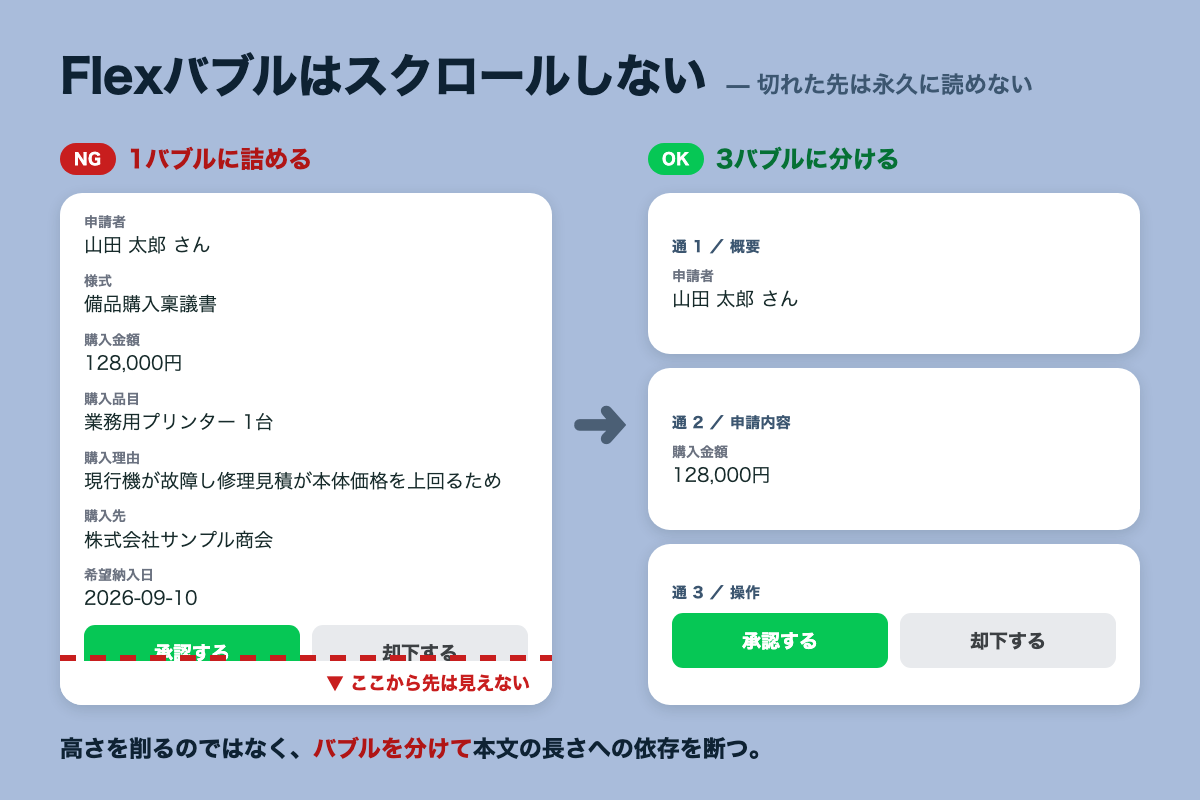
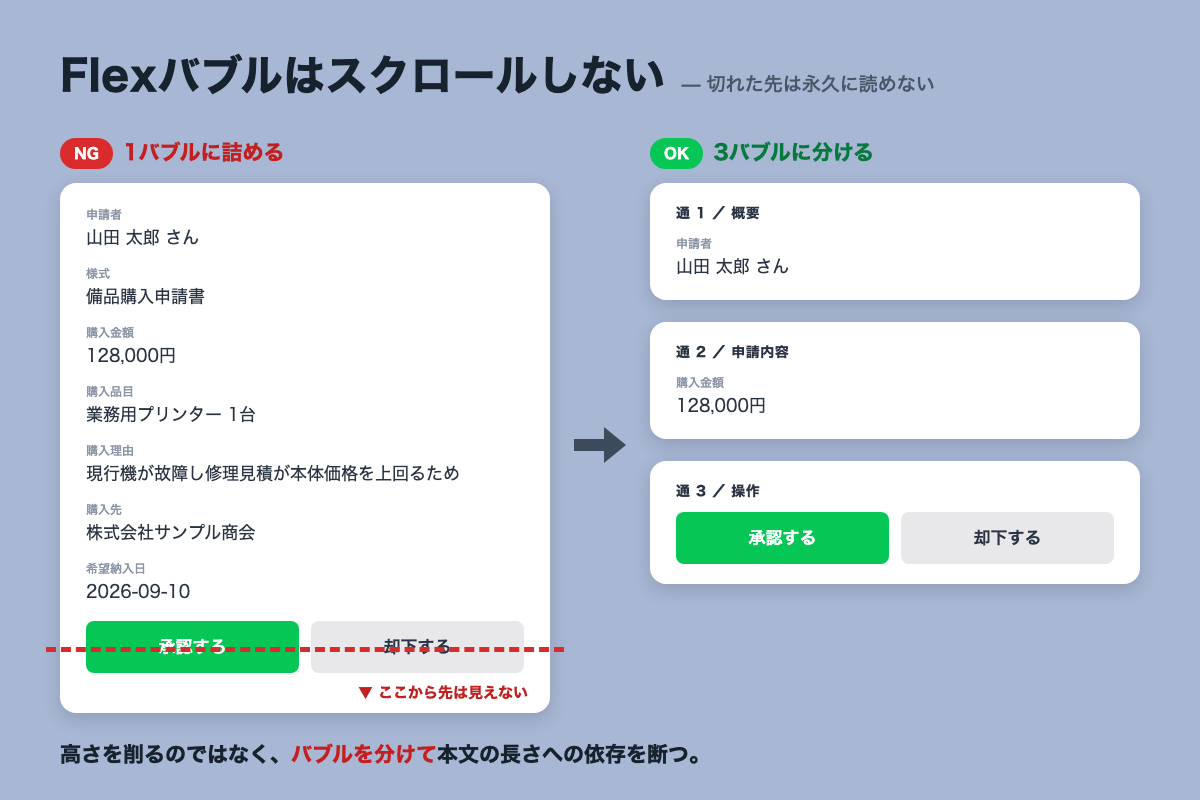
記事公開: Flexカードが押した瞬間にズレる件の新記事と、見切れ記事の加筆
- 新記事: カスタムフォント起因のズレを整理し、対処の知見を募る問いかけ記事
- 見切れ記事: 秘密保持のため業務固有の語を一般名へ置き換え、画像も差し替え
- 見切れ記事: 押下時ズレの症状と「学び」を加筆、姉妹記事リンクを追加

Changed region(s): [[0.0308, 0.1562, 0.9558, 0.9688], [0.0617, 0.0625, 0.8633, 0.125]]

diff --git a/articles/dd1693a16cd6b3.md b/articles/dd1693a16cd6b3.md
@@ -1,0 +1,105 @@
+---
+title: "Flexカードがボタンを押した瞬間にズレる。犯人はLINEのカスタムフォントだった"
+emoji: "👻"
+type: "tech" # tech: 技術記事 / idea: アイデア
+publication_name: "yoshinani_dev"
+topics: ["LINE", "LINEMessagingAPI", "FlexMessage", "UI", "フォント"]
+published: true
+---
+
+LINE の Flex Message で作った承認カードが、ボタンを押した瞬間にレイアウトごとズレる。トーク一覧へ戻って開き直すと、何事もなかったように元へ戻る。そんな挙動に遭遇しました。
+
+結論から言うと、引き金は LINE の有料プランで提供されるカスタムフォントでした。そして 2026 年 8 月現在、仕様の中にこれを防ぐ決定打を見つけられていません。
+
+同じ症状を追いかけている人の、切り分けの時短になれば嬉しいです。あわせて、対処をご存じの方がいたらコメントで教えてください。
+
+:::message
+本記事は業務システムの開発に伴走した記録です。クライアント名・業務固有の用語・ユーザー ID などは伏せ、サンプルデータは架空の申請書に置き換えています。
+:::
+
+## つくっていたもの
+
+LINE 上で完結する、社内の申請承認ワークフローです。申請者が LINE から申請すると、承認者に Flex Message でカードが届き、その場で「承認する」「却下する」を押せます。
+
+見切れと 7 連敗した経緯は姉妹記事にまとめました。本記事はその後日談で、症状の全体像と現時点の落とし所を整理します。
+
+https://zenn.dev/yoshinani_dev/articles/98ccf4a55b0347
+
+## 症状はひとつではなかった
+
+該当端末で確認できた症状は 2 種類あります。
+
+**1. 恒常的な見切れ。** バブルの下端が切れ、最下段のボタンが画面に出ません。Flex のバブルはスクロールしないので、切れた先は指でも引っぱり出せません。開き直しても直りません。
+
+**2. 押した瞬間のズレ。** カードのボタンをタップした瞬間、レイアウトが崩れます。トーク一覧へ戻ってから開き直すと元に戻ります。
+
+2 は特に示唆的でした。JSON は 1 バイトも変わっていないのに、表示だけが崩れ、再描画で復元する。データ側ではなく、LINE アプリの描画側で起きている問題だと切り分けられます。
+
+## 引き金はカスタムフォント
+
+症状が出たのは、LINE の有料プランで提供されるカスタムフォントを設定した端末だけでした。手元の標準フォント端末では、同じ JSON がきれいに表示されます。
+
+考えてみれば当然で、フォントが変われば 1 行の高さも折り返し位置も変わります。ただし Flex Message は HTML と違って、あふれてもスクロールが生えません。あふれたぶんは、ただ消えます。
+
+## 公式ドキュメントの立場
+
+公式ドキュメントに書いてあるのはこのあたりです。
+
+- 描画は端末の環境（OS・LINE バージョン・画面の解像度・言語設定・フォント）によって変わりうる
+- `scaling` は、アプリのフォントサイズ設定にサイズを追従させるためのオプトイン
+- `adjustMode: "shrink-to-fit"` はベストエフォート
+
+> The `adjustMode` property takes a "best-effort" approach that may work differently—or not at all!—on some platforms.
+
+一方で、次のことは見つけられませんでした。
+
+- バブルの最大高さ
+- 高さの上限を超えたときの挙動
+- カスタムフォントで高さが変わる場合の対処
+
+つまり「フォントで表示が変わる」ことは公式も明記したうえで、変わった結果をどう守るかは開発者に委ねられています。
+
+## 効かなかったもの
+
+姉妹記事で実測した要点だけ再掲します。
+
+| 対処 | 結果 |
+| --- | --- |
+| 本文を短くする | 短くした構成のほうが切れるケースがあった |
+| パディングを増やす | バブルが高くなる方向。3 回試して全て空振り |
+| `scaling: true` | フォント設定に追従してさらに高くなり逆効果 |
+| `adjustMode` | 幅方向にしか効かない |
+
+プロパティで押さえ込む方向は、全滅でした。
+
+## 現時点の現実解
+
+再現性があったのは、構造を変えることだけでした。
+
+1. **ボタンを本文と別のバブルに分ける。** 本文がどれだけ伸びても、操作系が巻き添えを食いません
+2. **行数の予算で分割する。** 推定行数が予算を超えたら、本文バブルをさらに分割します
+3. **再現端末へ直接テスト送信する。** [Flex Message Simulator](https://developers.line.biz/flex-simulator/) のテスト送信を使うと、デプロイなしで確認できます
+
+押した瞬間のズレ（症状 2）については、正直に書くと防ぐ手立てを見つけられていません。開き直せば直るため実害は見切れより小さいものの、利用者に「開き直してください」と案内するのは敗北感があります。
+
+## みなさんはどうしていますか
+
+自分の観測範囲では、この問題に決定打がありません。知りたいのはこのあたりです。
+
+- カスタムフォント端末での崩れを、プロパティ側で防げた事例
+- 押した瞬間のズレの回避策
+- 公式のロードマップや既知の issue の情報
+
+ご存じの方がいたら、コメントで教えてもらえると嬉しいです。分かったことはこの記事に追記していきます。
+
+## おわりに
+
+「フォントで描画が変わる」と仕様が言っている以上、ピクセル単位でレイアウトを守るのは最初から分の悪い勝負です。守るべきは見た目の再現ではなく、操作が必ず届くことでした。
+
+同じカードを磨き続けるより、ボタンを独立させて小さく保つ。現時点の私の答えはこれです。
+
+## 参考
+
+- [Flex Message layout | LINE Developers](https://developers.line.biz/en/docs/messaging-api/flex-message-layout/)
+- [Send Flex Messages | LINE Developers](https://developers.line.biz/en/docs/messaging-api/using-flex-messages/)
+- [Flex Message Simulator](https://developers.line.biz/flex-simulator/)

diff --git a/articles/98ccf4a55b0347.md b/articles/98ccf4a55b0347.md
@@ -9,19 +9,19 @@ published: true
 
 LINE の Flex Message で作った承認カードが、特定の端末でだけ下端が切れて、承認ボタンが押せなくなりました。7 回直して 7 回とも再発しました。
 
-犯人は「高さを削れば直る」という思い込みでした。実際に測ってみたら、短くしたほうが切れるという結果が出ます。
+結論から言うと、犯人は「高さを削れば直る」という思い込みでした。実際に測ってみたら、短くしたほうが切れるという結果が出ました。
 
 同じ症状で消耗している人の時短になれば嬉しいです。
 
 ![1バブルに詰めると下端のボタンが切れる。3バブルに分けると本文の長さに依存しなくなる](/images/line-flex-bubble-split.png)
 
 :::message
-本記事は業務システムの開発に伴走した記録です。クライアント名・様式名・ユーザー ID などは伏せ、サンプルデータは架空の稟議書に置き換えています。
+本記事は業務システムの開発に伴走した記録です。クライアント名・業務固有の用語・ユーザー ID などは伏せ、サンプルデータは架空の申請書に置き換えています。
 :::
 
 ## つくっていたもの
 
-LINE 上で完結する稟議申請システムです。申請者が LINE から申請すると、決裁者に Flex Message で承認依頼カードが飛び、その場で「承認する」「却下する」を押せます。
+LINE 上で完結する、社内の申請承認ワークフローです。申請者が LINE から申請すると、承認者に Flex Message で承認依頼カードが飛び、その場で「承認する」「却下する」を押せます。
 
 技術構成はこんな感じです。
 
@@ -36,7 +36,13 @@ LINE 上で完結する稟議申請システムです。申請者が LINE から
 
 その端末で見せてもらうと、カードの下端が途中で切れていて、最下段のボタンが画面に出ていませんでした。しかも Flex のバブルはスクロールしません。切れた先は指でも引っぱり出せない。
 
-該当端末は、LINE の有料プランで提供されるカスタムフォントを設定していました。
+該当端末は、LINE の有料プランで提供されるカスタムフォントを設定していました。フォントが変われば行の高さも変わります。同じ JSON でも、端末によって描画される高さは同じではないわけです。
+
+不可解な挙動もありました。カードのボタンを押した瞬間にレイアウトがずれ、トーク一覧へ戻ってから開き直すと元に戻ります。JSON は同じまま表示だけが変わる。データではなく描画側の問題だと、ここで確信しました。
+
+この「押すとズレて、開き直すと直る」挙動は、症状の全体像と合わせて姉妹記事に整理しています。
+
+https://zenn.dev/yoshinani_dev/articles/dd1693a16cd6b3
 
 ## 7 回の敗北
 
@@ -238,9 +244,23 @@ expect(JSON.stringify(messages)).toContain(long)
 
 つまりレイアウトは保証されていません。公式が示す対処も「シミュレータで事前に確認せよ」に尽きます。プロパティで殴るより構造で依存を断つ。この方針は、公式の態度と照らしても妥当だと思っています。
 
+## 学び
+
+### 1. 検証手段がないまま修正を始めない
+
+7 回の再発は、仮説が外れたから起きたのではありません。外れたことを検知できないまま、次の仮説を積んだから起きました。検証ループを用意したあとは、1 回の試行が数十秒で終わっています。**再現環境のない修正は、修正ではなくギャンブルです。**
+
+### 2. 合否は誰が見ても同じになる形にする
+
+「切れていないか目で見て判断する」は、判定がぶれるうえに人へ頼みにくい方法でした。END マーカーを置いてからは「届いた画像をそのまま送ってください」で済みます。**判定から解釈を抜くと、検証を人に配れるようになります。**
+
+### 3. 仕様が保証しないものは構造で守る
+
+`scaling` もパディング調整も、最終的な描画を端末側の裁量に委ねるプロパティでした。再現性があったのはバブルを分ける構造の変更だけです。**保証のないレイアウトは、調整で粘るより依存を断つほうが早いです。**
+
 ## おわりに
 
-7 回の再発を招いたのは、難しさではなく検証手段の不在でした。最初にシミュレータのテスト送信を用意していれば、1 回で終わっていたはずです。
+最初にシミュレータのテスト送信を用意していれば、この件は 1 回のデプロイで終わっていたはずです。
 
 Flex Message でレイアウトに悩んだら、プロパティ表を眺める前に、まず自分の端末へ 1 通投げてみてください。
 
